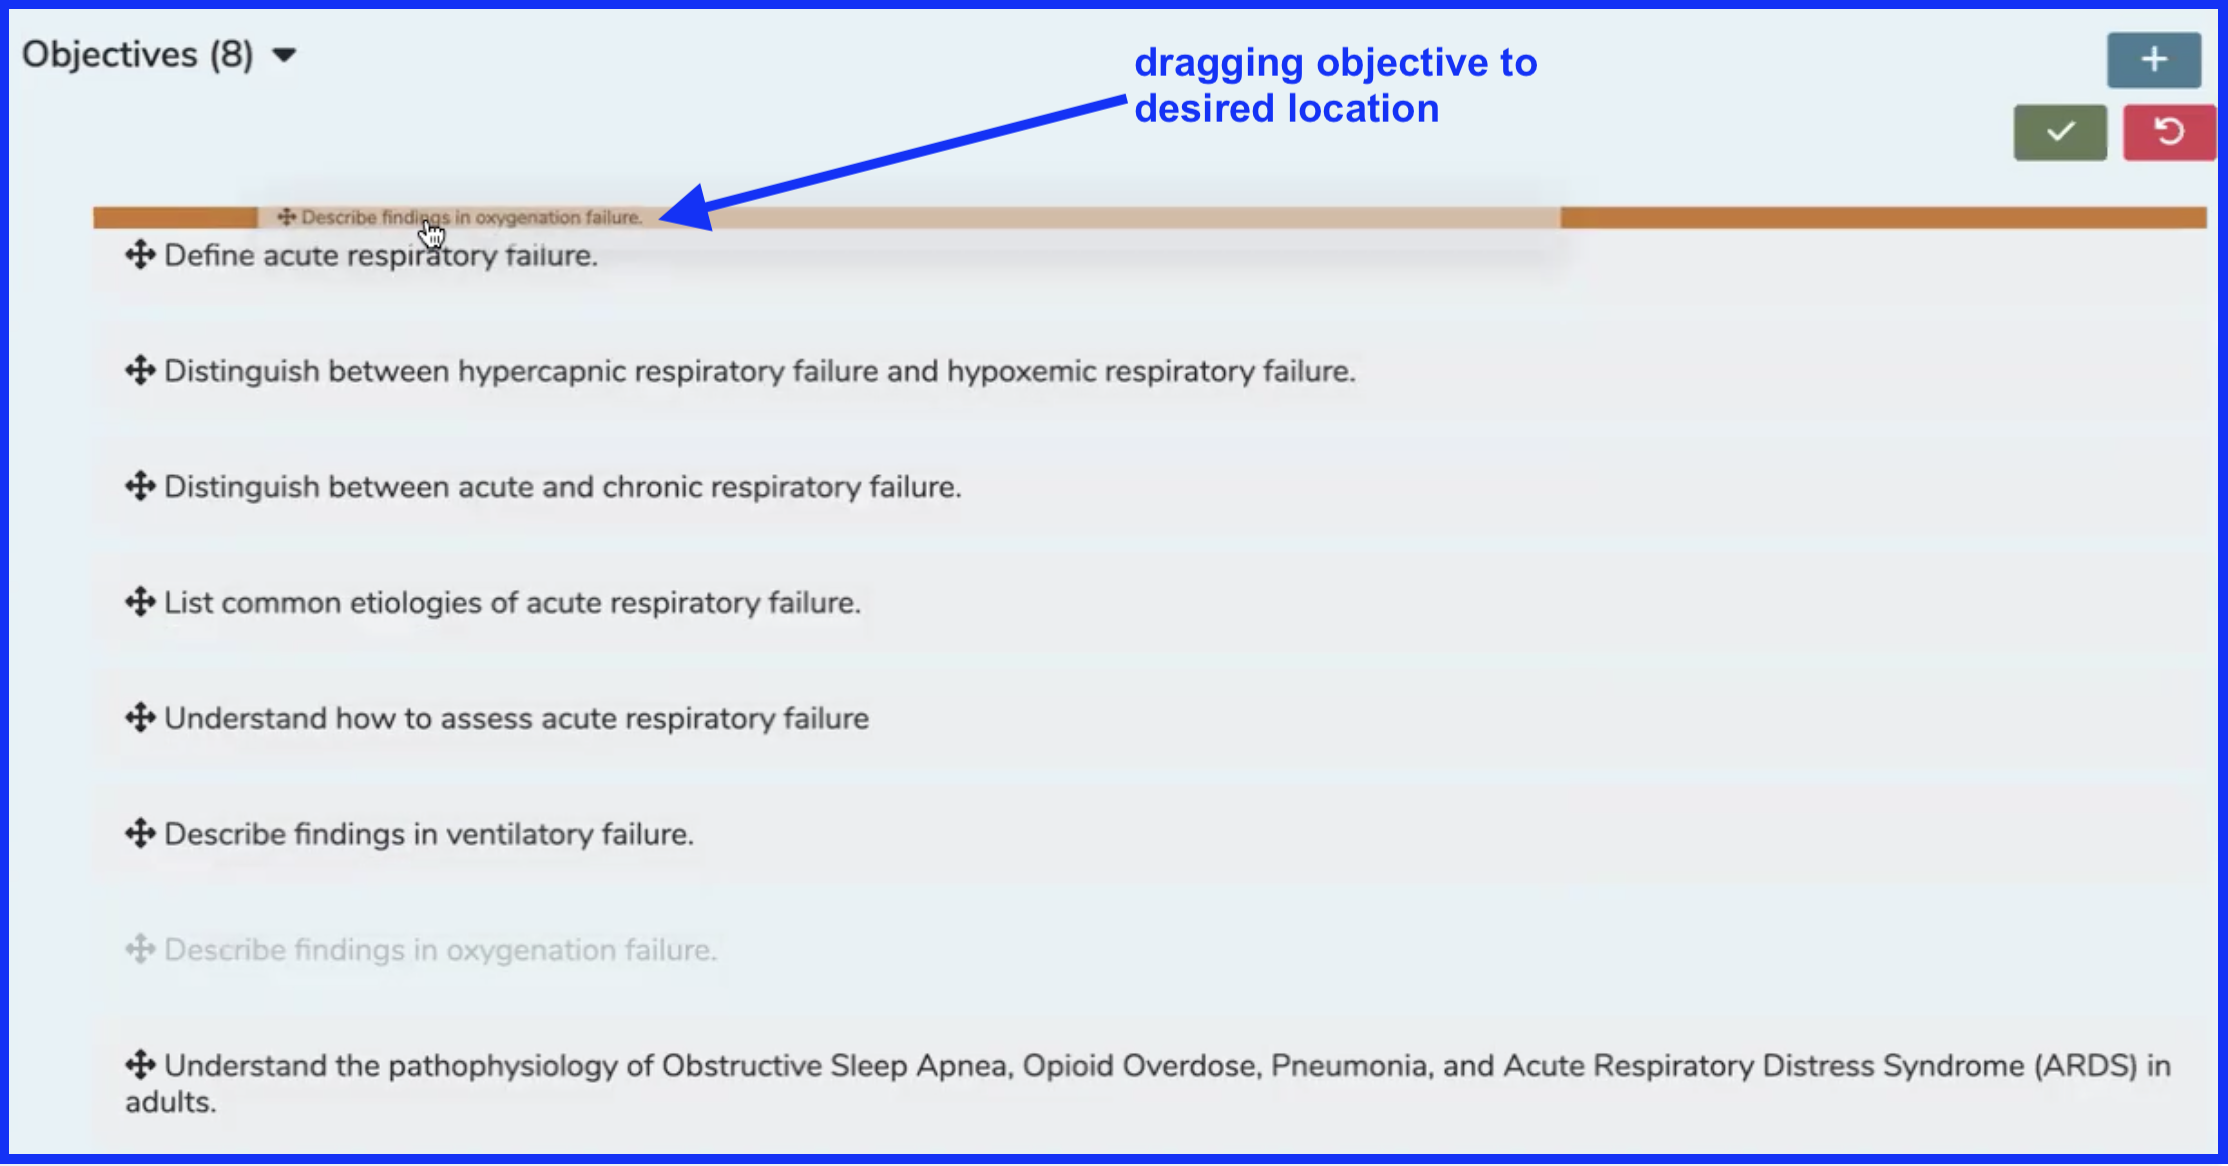
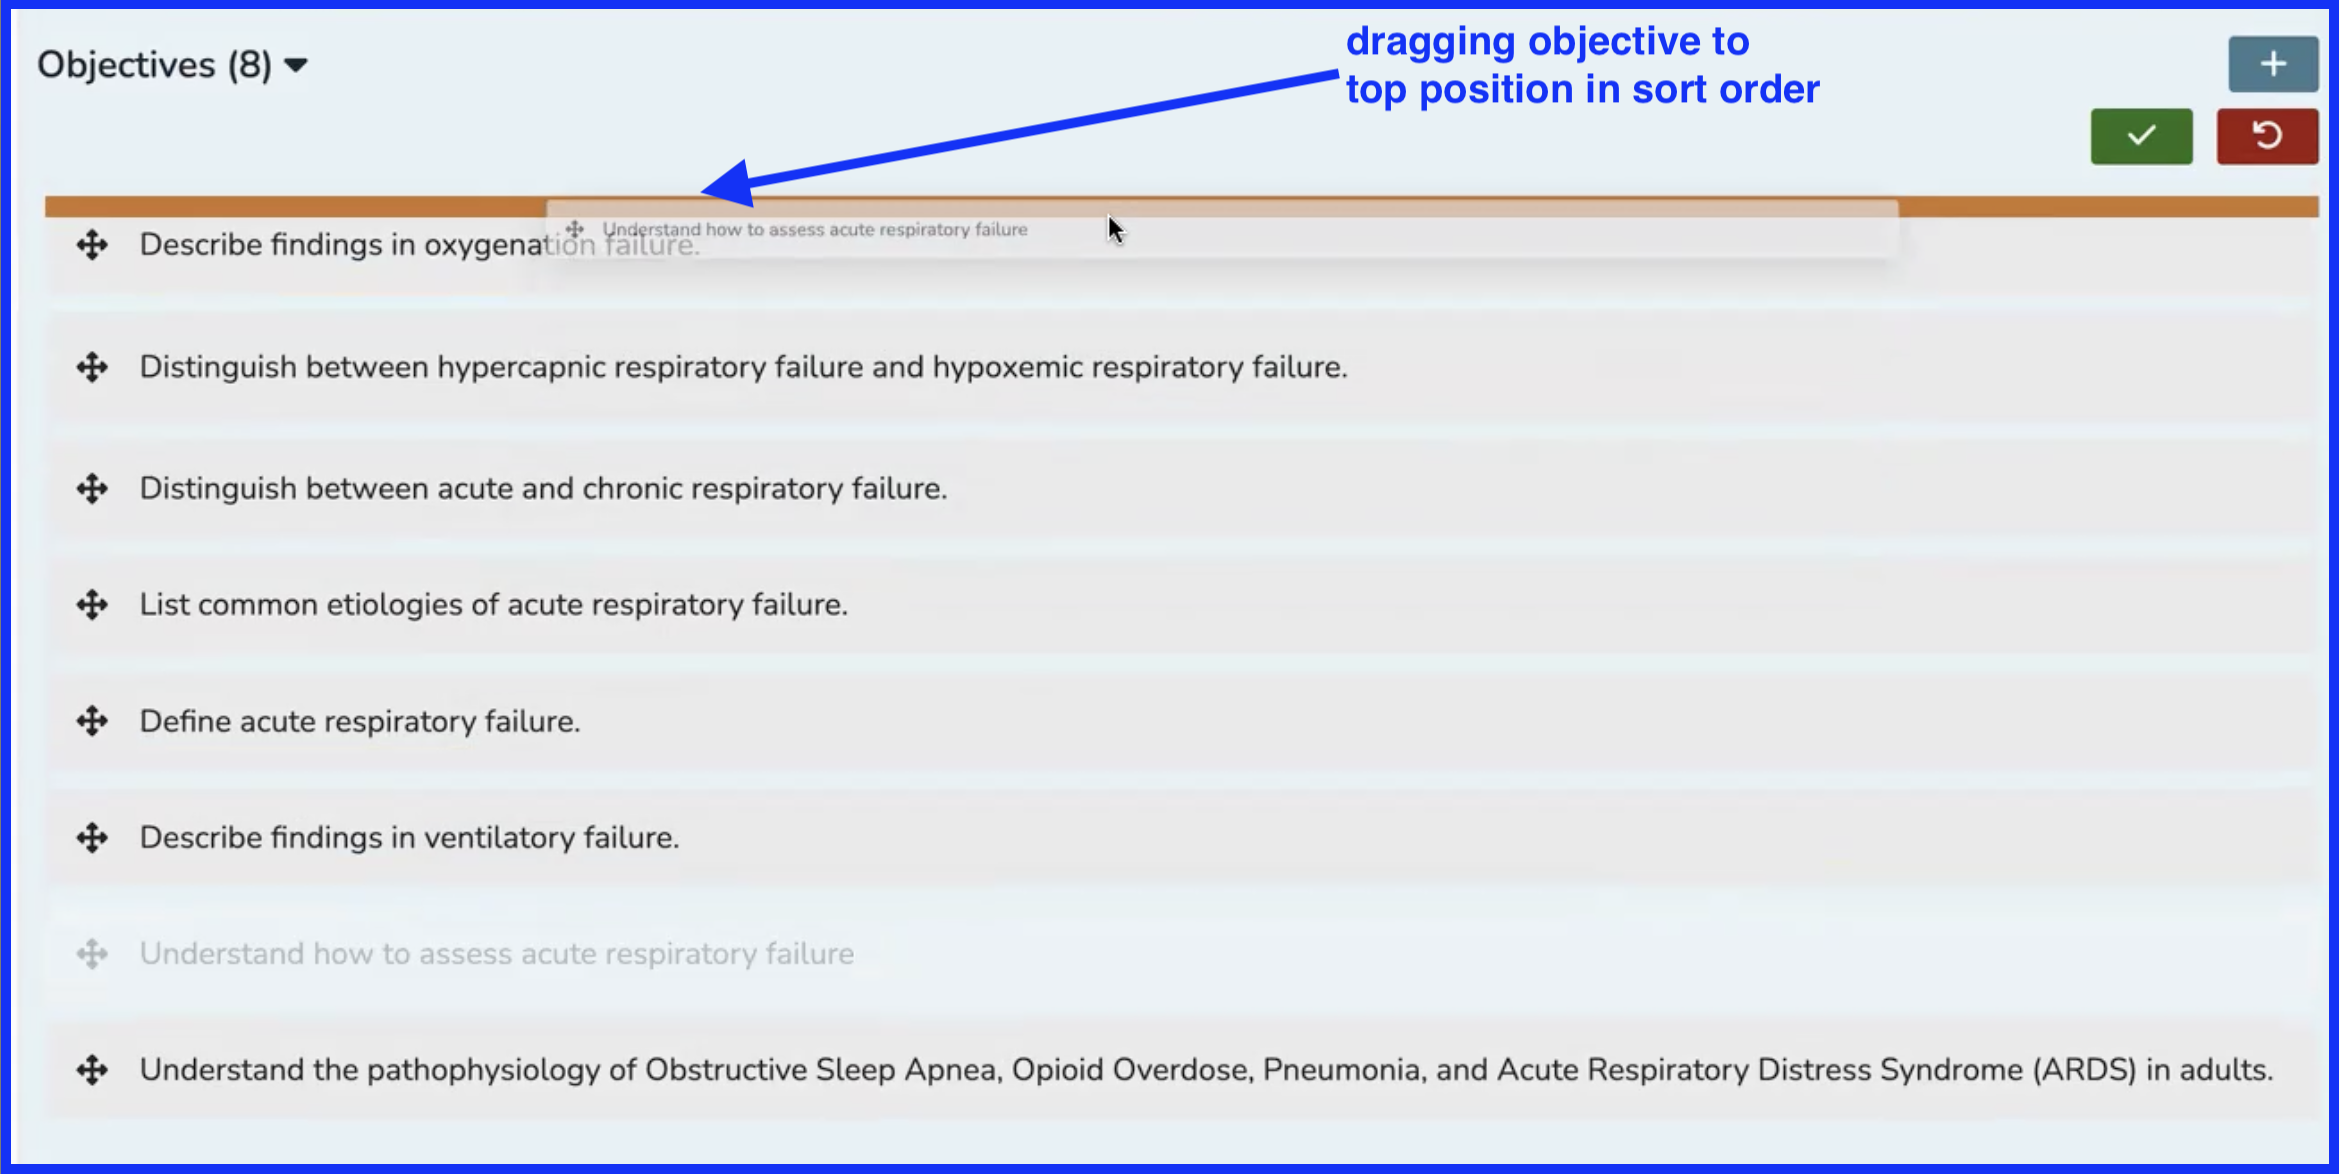
image replaced - slight text update too

diff --git a/courses-and-sessions/sessions/sort-objectives.md b/courses-and-sessions/sessions/sort-objectives.md
@@ -12,7 +12,7 @@ To do this, pull up a session that has objectives ready to be sorted.
 
 ![click to sort objectives](../../images/sort_session_objectives/click_to_sort_objectives.png)
 
-After activating the functionality by clicking the `Sort Objectives` button as shown above, the screen is expanded to allow for the re-ordering of the Session Objectives. For the sake of demonstration, it is desired that the Objective titled **"Describe findings in oxygenation failure."** be moved up to the number one position. Students (or anyone who views the Event Detail for this session) will see this session objective first, indicating its relative importance.
+After activating the functionality by clicking the `Sort Objectives` button as shown above, the screen is expanded to allow for the re-ordering of the Session Objectives. For the sake of demonstration, it is desired that the Objective titled **"Describe findings in oxygenation failure."** be moved up to the number one position - top of the sort order. Students (or anyone who views the Event Detail for this session) will see this session objective first, indicating its relative importance.
 
 ![list displayed](../../images/sort_session_objectives/list_displayed.png)
 
